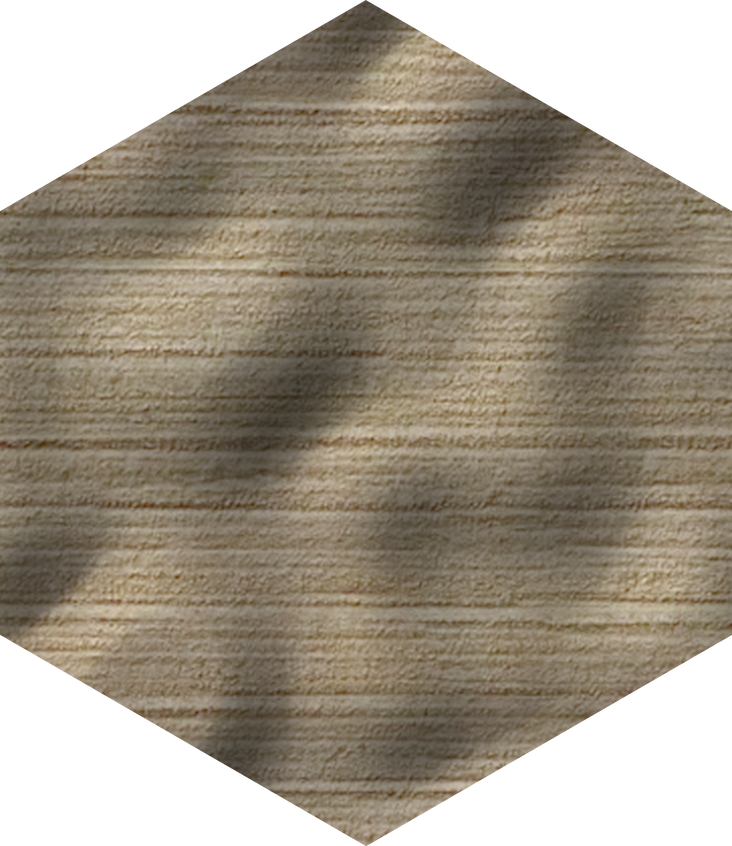
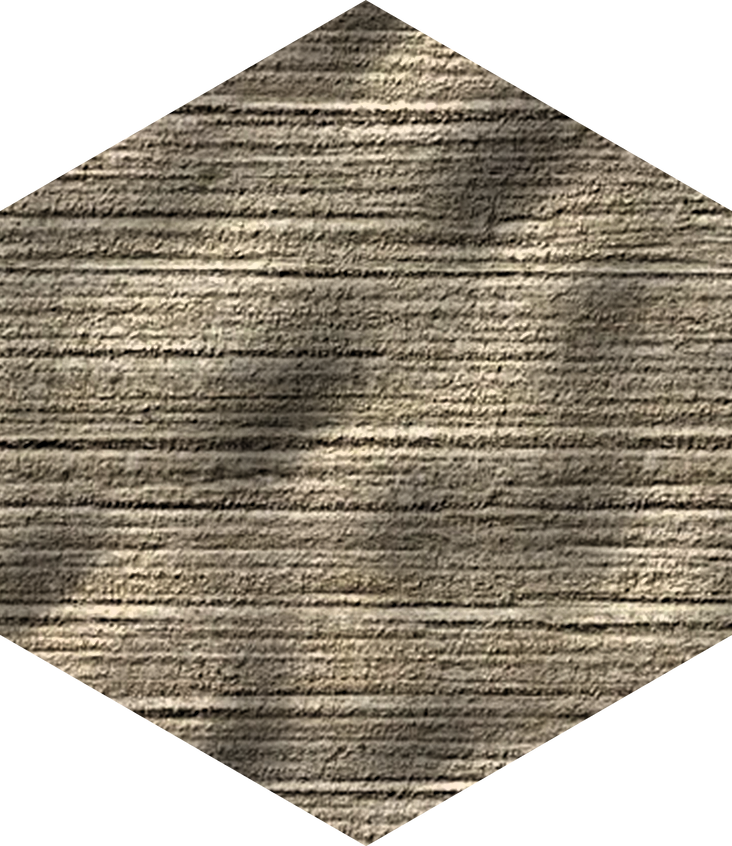
v0.8za: Fix hilly images

diff --git a/frontend/src/components/game/games/risq/canvas_components/left_panel/content/space_view.ts b/frontend/src/components/game/games/risq/canvas_components/left_panel/content/space_view.ts
@@ -9,6 +9,7 @@ import { spaceOwnerColor, terrainTypeLabel } from '../../../rendering/terrain';
 import { RisqSpaceUnitsRowButton } from '../controls/space_units_row_button';
 import type { PanelDrawContext } from './primitives';
 import { drawName, drawSeparator, drawSubtitle } from './primitives';
+import { drawRegionOwnership } from './region_ownership';
 import type { RisqSpaceHexagon } from './space_hexagon';
 
 /** Draws a combo villager+military icon, used where only a total unit count is visible */
@@ -212,10 +213,8 @@ export class RisqSpaceView {
   }
 }
 
-export function drawRegion(pc: PanelDrawContext, region: RisqRegion): void {
+function drawRegionOwner(pc: PanelDrawContext, region: RisqRegion, yi: number): number {
   const { ctx, frame, risq } = pc;
-  let yi = frame.yi() + drawName(pc, region.name);
-  yi += 12;
   const image_size = 40;
   const owner_color = region.owner >= 0 ? risq.getGame()?.players[region.owner]?.color : undefined;
   const owner_name = owner_color
@@ -233,7 +232,13 @@ export function drawRegion(pc: PanelDrawContext, region: RisqRegion): void {
     baseline: 'middle',
     font: '20px serif',
   });
-  yi += image_size + 12;
+  return yi + image_size + 12;
+}
+
+export function drawRegion(pc: PanelDrawContext, region: RisqRegion): void {
+  const { ctx, frame, risq } = pc;
+  let yi = frame.yi() + drawName(pc, region.name);
+  yi += drawSubtitle(pc, 'Region', yi) + 12;
   drawSeparator(pc, yi);
   yi += 12;
   ctx.drawImage(risq.getIcon(resourceTypeImage(RisqResourceType.GOLD)), frame.xi() + 0.1 * frame.w(), yi, 32, 32);
@@ -246,11 +251,19 @@ export function drawRegion(pc: PanelDrawContext, region: RisqRegion): void {
     font: '20px serif',
   });
   yi += 40;
-  drawText(ctx, `${region.spaces.length} space${region.spaces.length === 1 ? '' : 's'} explored`, {
+  const space_count =
+    region.unexplored_spaces > 0
+      ? `${region.spaces.length}/? spaces explored`
+      : `${region.spaces.length} space${region.spaces.length === 1 ? '' : 's'}`;
+  drawText(ctx, space_count, {
     p: { x: frame.xi() + 0.1 * frame.w(), y: yi },
     w: 0.8 * frame.w(),
     fill_style: 'black',
     align: 'left',
     font: '16px serif',
   });
+  yi += 32;
+  drawSeparator(pc, yi);
+  yi = drawRegionOwner(pc, region, yi + 12);
+  drawRegionOwnership(pc, region, yi);
 }

diff --git a/frontend/src/components/game/games/risq/application/orders/planning.ts b/frontend/src/components/game/games/risq/application/orders/planning.ts
@@ -16,6 +16,7 @@ import type { RisqSession } from '../session';
 import type { RisqOrdersModel } from './orders_model';
 import type { IdleCategory } from './idle_category';
 import { idleCategory } from './idle_category';
+import { buildingCanProduce, researchQueued } from './eligibility';
 
 export declare interface LocalRisqFoundation {
   coordinate_key: number;
@@ -139,7 +140,8 @@ export class RisqOrderPlanning {
   }
 
   idleBuildingCount(): number {
-    return this.idleBuildings().filter((building: RisqBuilding): boolean => building.produces.length > 0).length;
+    return this.idleBuildings().filter((building: RisqBuilding): boolean => this.hasAvailableProduction(building))
+      .length;
   }
 
   idleOrderableCount(): number {
@@ -156,6 +158,19 @@ export class RisqOrderPlanning {
     }
   }
 
+  private hasAvailableProduction(building: RisqBuilding): boolean {
+    const player = this.session.getPlayer();
+    return (
+      !!player &&
+      building.produces.some(
+        (producible: RisqProducible): boolean =>
+          buildingCanProduce(player, building, producible) &&
+          (producible.kind !== RisqProducibleKind.TECH ||
+            !researchQueued(player, this.orders_model.all(), producible.id))
+      )
+    );
+  }
+
   private idleBuildings(): RisqBuilding[] {
     const player = this.session.getPlayer();
     if (!player) {
@@ -163,7 +178,14 @@ export class RisqOrderPlanning {
     }
     return [...player.buildings.values()]
       .filter(
-        (b) => !b.under_construction && this.orders_model.effectiveForSubject(b.internal_id, 'building').length === 0
+        (b: RisqBuilding): boolean =>
+          !b.under_construction &&
+          (b.combat_stats.attack_blunt > 0 ||
+            b.combat_stats.attack_piercing > 0 ||
+            b.combat_stats.attack_magic > 0 ||
+            b.garrison_capacity > 0 ||
+            this.hasAvailableProduction(b)) &&
+          this.orders_model.effectiveForSubject(b.internal_id, 'building').length === 0
       )
       .sort((a, b) => a.internal_id - b.internal_id);
   }

diff --git a/frontend/src/components/game/game.ts b/frontend/src/components/game/game.ts
@@ -411,7 +411,6 @@ export class DwgGame extends DwgElement {
     const new_game = serverResponseToGame(response.result, this.clientId());
     this.game = new_game;
     let game_initialized = false;
-    let waiting_room_initialized = false;
     const set_game = async (component: GameHtmlTag): Promise<void> => {
       if (!this.bundles_attached.has(component)) {
         const script = document.createElement('script');
@@ -445,17 +444,15 @@ export class DwgGame extends DwgElement {
       game_el.addEventListener('game_initialization_failed', (e: CustomEvent<unknown>): void =>
         this.handleStartupError(game_el, e.detail)
       );
-      const initialization = this.game_el.initialize(this, new_game).then(() => {
+      try {
+        await this.game_el.initialize(this, new_game);
         if (!this.isConnected || this.game !== new_game || !game_el.isConnected || this.game_el !== game_el) {
           return;
         }
         game_initialized = true;
-        if (waiting_room_initialized) {
-          this.socketSend(createMessage(`client-${this.clientId()}`, 'game-connected', '', this.game_id.toString()));
-          this.launched = true;
-        }
-      });
-      initialization.catch((error: unknown): void => this.handleStartupError(game_el, error));
+      } catch (error) {
+        this.handleStartupError(game_el, error);
+      }
       game_el.addEventListener('game_update', (e) => {
         if (new_game.game_base.game_ended) {
           console.log('Game already over');
@@ -510,7 +507,6 @@ export class DwgGame extends DwgElement {
       }
     }
     this.classList.add('show');
-    waiting_room_initialized = true;
     if (
       game_initialized &&
       this.isConnected &&

diff --git a/frontend/src/components/game/games/risq/canvas_components/left_panel/content/region_ownership.ts b/frontend/src/components/game/games/risq/canvas_components/left_panel/content/region_ownership.ts
@@ -1,0 +1,32 @@
+import { drawText } from '../../../../../util/canvas_util';
+import { invertPair } from '../../../model/coordinates';
+import type { RisqRegion } from '../../../model/types';
+import type { PanelDrawContext } from './primitives';
+
+export function drawRegionOwnership(pc: PanelDrawContext, region: RisqRegion, yi: number): void {
+  const counts = new Map<number, number>();
+  for (const key of region.spaces) {
+    const owner = pc.risq.session.spaceAt(invertPair(key))?.ownership ?? -1;
+    counts.set(owner, (counts.get(owner) ?? 0) + 1);
+  }
+  const draw_count = (name: string, count: number, color: string = 'black'): void => {
+    drawText(pc.ctx, `${name}: ${count} space${count === 1 ? '' : 's'}`, {
+      p: { x: pc.frame.xi() + 0.1 * pc.frame.w(), y: yi },
+      w: 0.8 * pc.frame.w(),
+      fill_style: color,
+      align: 'left',
+      font: '18px serif',
+    });
+    yi += 28;
+  };
+  for (const player of pc.risq.getGame()?.players ?? []) {
+    const count = counts.get(player.player.player_id) ?? 0;
+    if (count > 0) {
+      draw_count(player.player.nickname, count, player.color.getString());
+    }
+  }
+  if (region.unexplored_spaces > 0) {
+    draw_count('Unexplored', region.unexplored_spaces);
+  }
+  draw_count('Unowned', counts.get(-1) ?? 0);
+}

diff --git a/frontend/src/components/game/games/risq/canvas_components/minimap/risq_minimap.ts b/frontend/src/components/game/games/risq/canvas_components/minimap/risq_minimap.ts
@@ -447,7 +447,11 @@ export class RisqMinimap implements CanvasComponent {
         const selected_units = this.risq.selection.selectedUnitIds();
 
         ctx.imageSmoothingEnabled = true;
-        if (view_mode !== RisqViewMode.MILITARY) {
+        if (
+          view_mode !== RisqViewMode.MILITARY &&
+          view_mode !== RisqViewMode.OWNERSHIP &&
+          view_mode !== RisqViewMode.REGION
+        ) {
           for (const space of all_spaces) {
             this.drawResourceDots(ctx, space, selected_resource_points);
           }

diff --git a/frontend/src/components/game/games/risq/transport/snapshot_types.ts b/frontend/src/components/game/games/risq/transport/snapshot_types.ts
@@ -44,6 +44,7 @@ export declare interface RisqRegionFromServer {
   gold_bonus: number;
   spaces: number[];
   owner: number;
+  unexplored_spaces: number;
 }
 
 /** Data describing risq player resources from server */

diff --git a/frontend/src/components/game/games/risq/model/types.ts b/frontend/src/components/game/games/risq/model/types.ts
@@ -31,6 +31,7 @@ export declare interface RisqRegion {
   gold_bonus: number;
   spaces: number[];
   owner: number;
+  unexplored_spaces: number;
 }
 
 /** Data describing an entry in the scores array */

diff --git a/scripts/apply_hill_overlay.py b/scripts/apply_hill_overlay.py
@@ -20,6 +20,7 @@ from PIL import Image, ImageFilter
 
 DEFAULT_RELIEF = 'backend/static/images/risq/terrains/hill_relief_base.png'
 DEFAULT_LEVEL = 0.78  # hills-mean-V / flat-mean-V, matching the grass/dirt originals
+DEFAULT_DETAIL_STRENGTH = 1.5
 DETAIL_BLUR_RADIUS = 10
 
 
@@ -62,6 +63,6 @@ if __name__ == '__main__':
     parser.add_argument('output_image')
     parser.add_argument('--relief', default=DEFAULT_RELIEF)
     parser.add_argument('--level', type=float, default=DEFAULT_LEVEL)
-    parser.add_argument('--detail-strength', type=float, default=0.0)
+    parser.add_argument('--detail-strength', type=float, default=DEFAULT_DETAIL_STRENGTH)
     args = parser.parse_args()
     apply_hill_overlay(args.flat_texture, args.output_image, args.relief, args.level, args.detail_strength)

diff --git a/backend/game/games/risq/tests/risq_tests/shape/regions_test.go b/backend/game/games/risq/tests/risq_tests/shape/regions_test.go
@@ -11,10 +11,14 @@ func TestRegionsOnlyIncludeExploredKeys(t *testing.T) {
 	state := snapshot(g, g.Human(0), false)
 	regions := array(t, state["regions"])
 	equal(t, len(regions), 1)
-	region := checkShape(t, regions[0], "name:s gold_bonus:n spaces:a owner:n")
+	region := checkShape(t, regions[0], "name:s gold_bonus:n spaces:a owner:n unexplored_spaces:n")
 	equal(t, region["name"], "Border")
 	equal(t, region["gold_bonus"], float64(7))
 	equal(t, region["spaces"], []any{float64(harness.SpaceKey(0, 0))})
+	equal(t, region["unexplored_spaces"], float64(1))
 	ownerRegions := array(t, snapshot(g, g.Human(1), false)["regions"])
 	equal(t, len(ownerRegions), 2)
+	for _, value := range ownerRegions {
+		equal(t, object(t, value)["unexplored_spaces"], float64(0))
+	}
 }

diff --git a/backend/game/games/risq/region.go b/backend/game/games/risq/region.go
@@ -71,10 +71,11 @@ func (region *RisqRegion) toFrontend(r *GameRisq, player_id int) gin.H {
 		return nil
 	}
 	return gin.H{
-		"name":       region.name,
-		"gold_bonus": region.gold_bonus,
-		"spaces":     explored_keys,
-		"owner":      region.owner,
+		"name":              region.name,
+		"gold_bonus":        region.gold_bonus,
+		"spaces":            explored_keys,
+		"unexplored_spaces": len(region.spaces) - len(explored_keys),
+		"owner":             region.owner,
 	}
 }
 

diff --git a/PLANS.md b/PLANS.md
@@ -1,10 +1,9 @@
 v0.9: Risq beta version
- z: Revamp summary report (fix colors, can see "events" on map, can interact with events i.e. replay them or see what happened precisely)
-
-Small Risq Issues:
+ - World risq map
+ - Fix tech tree and turn report colors
 
 Bigger Risq Issues/Ideas:
- - World risq map
+ - Utilize events on map
  - Expanded level 2 tech tree
     => Magic and color damage
     => Walls

diff --git a/README.md b/README.md
@@ -2,7 +2,7 @@ Online Games
 
 ## Current Version
 
-v0.8z: Frontend settings setup
+v0.8za: Fix hilly images
 
 ## Dev Use
 
